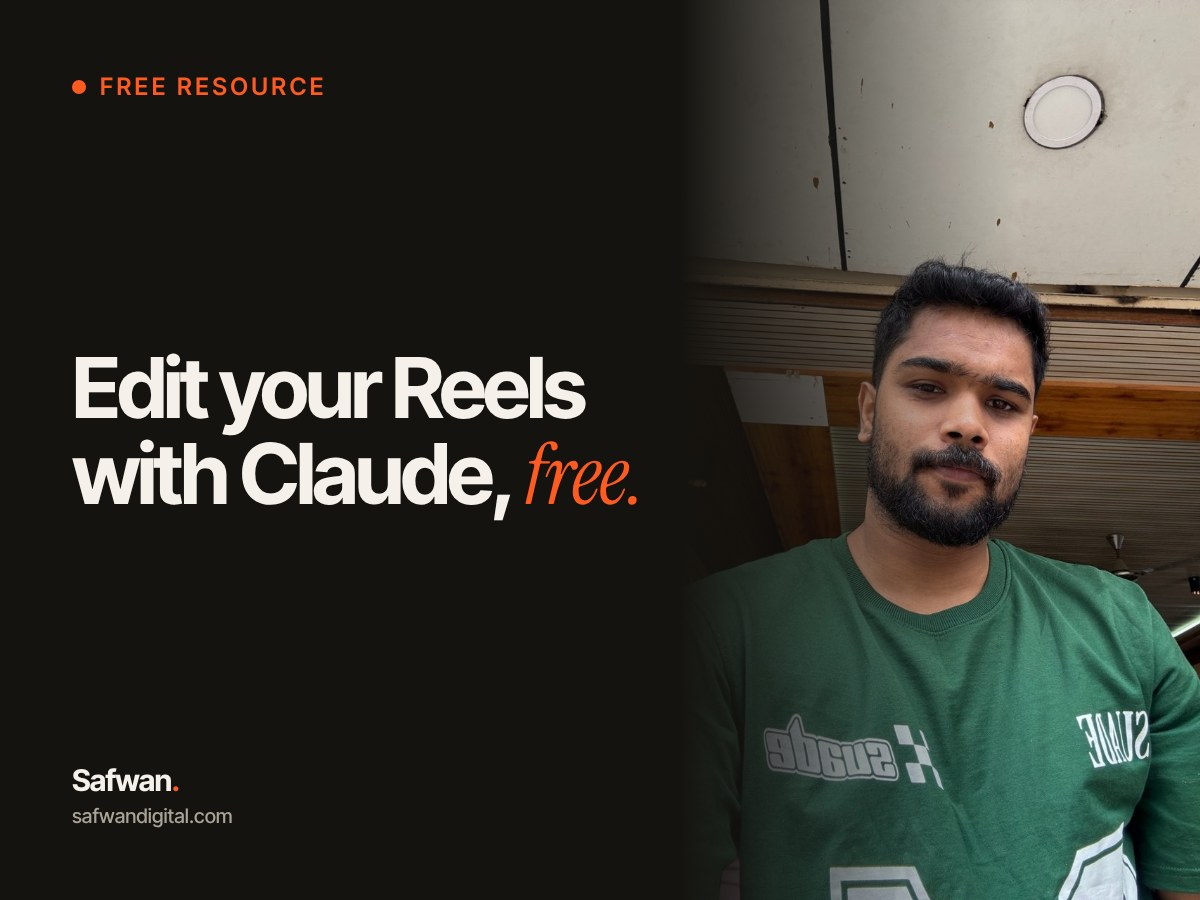
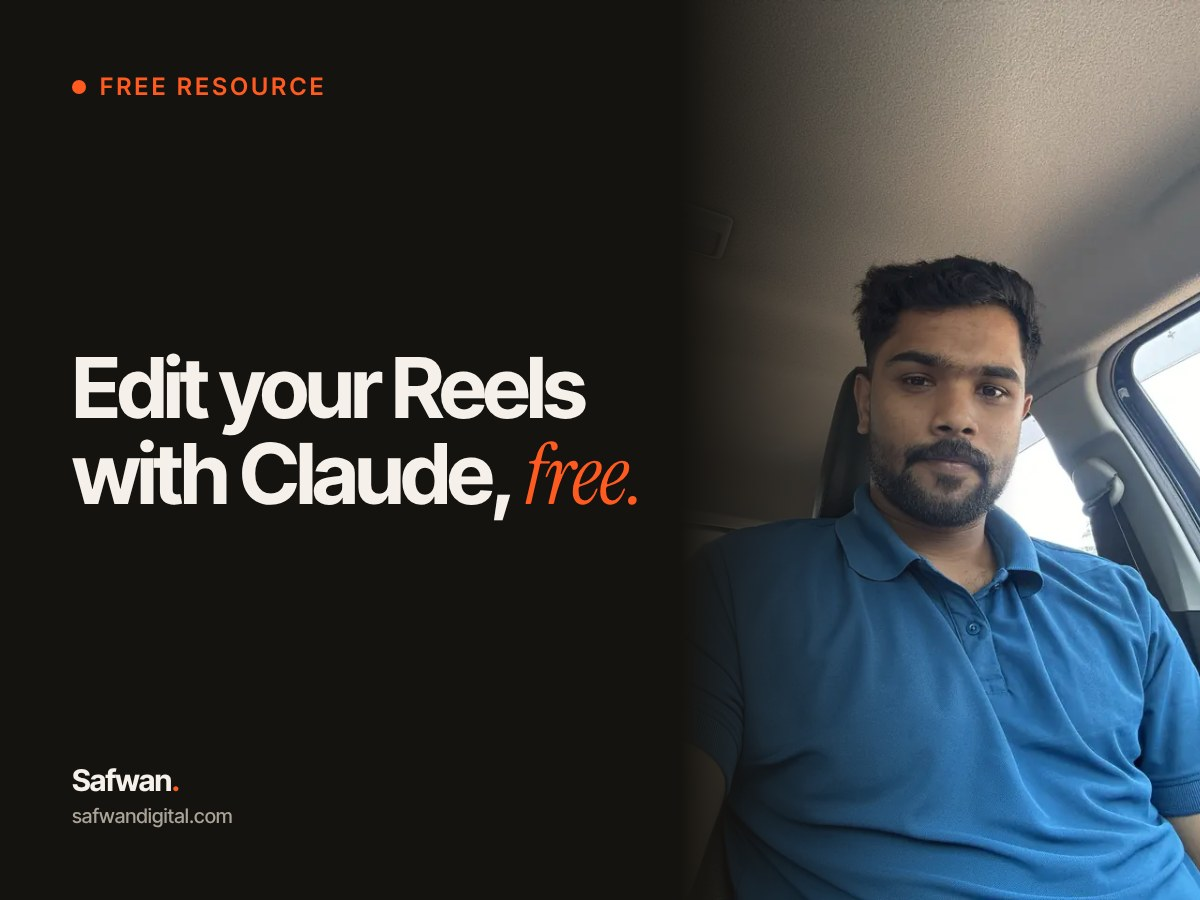
Use Safwan's new photos on the Reel skill page, compressed to WebP
Claude-Session: https://claude.ai/code/session_01KBX91dTFe4tTWGjprL2MgP

Changed region(s): [[0.5858, 0.0, 1.0, 1.0]]

diff --git a/resources/claude-reel-skill/index.html b/resources/claude-reel-skill/index.html
@@ -58,7 +58,7 @@
     </div>
     <div class="portrait">
       <span class="mono">S</span>
-      <img src="/assets/safwan-mirror.webp" alt="Mohammed Safwan taking a mirror selfie against an orange wall" width="720" height="960" fetchpriority="high" data-fallback style="object-position:50% 40%">
+      <img src="/assets/safwan-purple.webp" alt="Mohammed Safwan, who shares this free Claude skill for editing Reels" width="720" height="960" fetchpriority="high" data-fallback style="object-position:50% 30%">
       <div class="status"><i></i> Free download · No sign-up</div>
     </div>
   </div>
@@ -96,7 +96,7 @@
   <div class="wrap split">
     <div class="portrait">
       <span class="mono">S</span>
-      <img src="/assets/safwan-white.webp" alt="Mohammed Safwan, digital marketer from Kerala who creates Instagram Reels" width="720" height="960" loading="lazy" data-fallback style="object-position:50% 30%">
+      <img src="/assets/safwan-green-car.webp" alt="Mohammed Safwan, digital marketer from Kerala who creates Instagram Reels" width="720" height="960" loading="lazy" data-fallback style="object-position:50% 35%">
     </div>
     <div>
       <span class="eyebrow">What the skill does</span>

diff --git a/CLAUDE.md b/CLAUDE.md
@@ -11,7 +11,7 @@ Owner: Mohammed Safwan. He has no coding knowledge, so explain everything in pla
 - Industries: B2B services + healthcare (NMC guidelines). Markets: Kerala/India, UAE, Saudi Arabia, GCC. No ecommerce.
 - SEO target: "freelance digital marketer in Kerala", "digital marketer in Kerala", "digital marketing consultant Kerala".
 - No client results/numbers on the site until he provides real ones.
-- Photos: `photo.jpg` (home hero), `safwan-portrait.jpg` (about), `safwan-outdoor.jpg` (about/home teaser), `safwan-casual.jpg` (services), `safwan-selfie.jpg` (blog covers), `safwan-trees.jpg` (about "Working with me"), `safwan-hello.webp` (contact page greeting). `safwan-mirror.jpg` (orange wall) and `safwan-white.jpg` (Reel skill page), `safwan-green.jpg` (Reel skill cover). Still unused: `safwan-car.jpg`. Reuse any for future covers; use a different one per cover so posts don't all look the same. Pages show the smaller `.webp` copies (same names, e.g. `assets/photo.webp`); keep the `.jpg` originals for og:image, schema and the cover templates. `assets/avatar.webp` is the small face photo for the blog author circles. `assets/og-image.jpg` (1200×630, made from `_templates/og-image.html`) is the social share image for the main pages. Keep `llms.txt` and JSON-LD schema in sync with any bio changes.
+- Photos: `photo.jpg` (home hero), `safwan-portrait.jpg` (about), `safwan-outdoor.jpg` (about/home teaser), `safwan-casual.jpg` (services), `safwan-selfie.jpg` (blog covers), `safwan-trees.jpg` (about "Working with me"), `safwan-hello.webp` (contact page greeting). More photos for future covers: `safwan-green.jpg`, `safwan-white.jpg`, `safwan-mirror.jpg` (orange wall), `safwan-car.jpg`. Reel skill page uses `safwan-purple.webp` (hero), `safwan-green-car.webp` and `safwan-blue-car.webp` (its cover); these three exist only as small WebP files; use a different one per cover so posts don't all look the same. Pages show the smaller `.webp` copies (same names, e.g. `assets/photo.webp`); keep the `.jpg` originals for og:image, schema and the cover templates. `assets/avatar.webp` is the small face photo for the blog author circles. `assets/og-image.jpg` (1200×630, made from `_templates/og-image.html`) is the social share image for the main pages. Keep `llms.txt` and JSON-LD schema in sync with any bio changes.
 
 ## How the site works
 - Plain HTML/CSS/JS. No build step, no Node. Shared styles in `assets/style.css` (linked as `/assets/style.css?v=N` on every page; bump N on all pages whenever style.css changes so browsers don't show the old design), shared script in `assets/main.js`, icons in `assets/icons.svg` (use `<svg><use href="/assets/icons.svg#arrow"/></svg>`).
